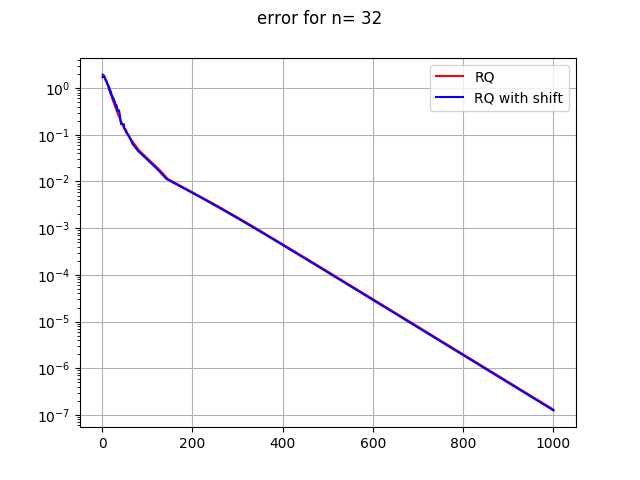
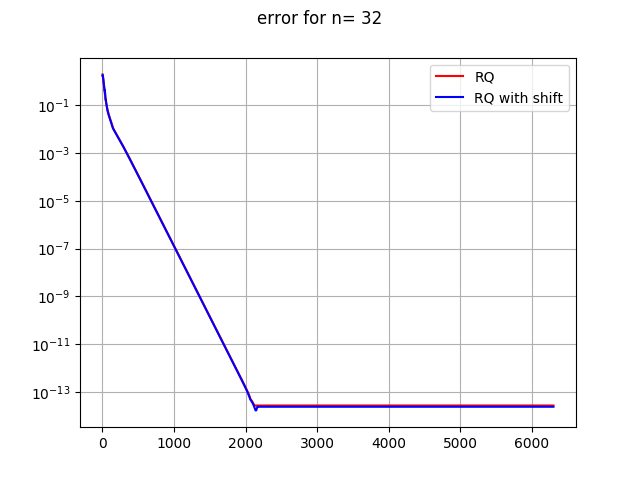
Ex12_4

diff --git a/Ue12/Ex12_4.py b/Ue12/Ex12_4.py
@@ -40,6 +40,14 @@ def myRQ_with_Shift(A,lmax):
         #     break
     return A, np.array(eigenvalues), iterations
 
+def find_convergence(array):
+    index = 0
+    for n, np in zip(array[:-1],array[1:]):
+        index += 1
+        if abs(n - np) < 1e-15:
+            break
+    return index
+
 if __name__ == "__main__":
 
     scriptpath = os.path.dirname(__file__)
@@ -77,10 +85,17 @@ if __name__ == "__main__":
     
     print('_'*50)
     print('PLOTTING')
-    l_max = 1000
-    for j in [3,5]:
+    l_max = 10000
+    index_RQ = []
+    index_RQ_with_shift = []
+    n_list = []
+    for j,l_max in zip(list(range(2,9)),[100,200,600,2100,7500,30000,60000]):
         n = 2**j
+        l_max = (100*int(np.power(n,1.2)))
+
         print('n= {}'.format(n))
+        print('l_max= {}'.format(l_max))
+        n_list.append(n)
         An = 2*np.eye(n,n,k=0) - np.eye(n,n,k=-1) - np.eye(n,n,k=1)
         
         true_eigenvalues = np.sort(np.linalg.eigvalsh(An))
@@ -98,10 +113,25 @@ if __name__ == "__main__":
         eigenvalues_RQ_with_shift = np.sort(eigenvalues_RQ_with_shift)
         error_RQ_with_shift = np.max(np.abs(eigenvalues_RQ_with_shift - true_eigenvalues),axis=1)
 
-        plt.clf()
-        plt.suptitle('error for n= {}'.format(n))
-        plt.semilogy(np.arange(1,l_max+1), error_RQ, 'r-', label='RQ')
-        plt.semilogy(np.arange(1,np.size(error_RQ_with_shift)+1), error_RQ_with_shift, 'b-', label='RQ with shift')
-        plt.grid()
-        plt.legend()
-        plt.savefig(os.path.join(scriptpath,"Ex12_4c_n={}.png".format(n)))
+        index_RQ.append(find_convergence(error_RQ))
+        index_RQ_with_shift.append(find_convergence(error_RQ_with_shift))
+        print(index_RQ[-1])
+        print(index_RQ_with_shift[-1])
+
+
+        if j == 3 or j == 5:
+            plt.clf()
+            plt.suptitle('error for n= {}'.format(n))
+            plt.semilogy(np.arange(1,l_max+1), error_RQ, 'r-', label='RQ')
+            plt.semilogy(np.arange(1,np.size(error_RQ_with_shift)+1), error_RQ_with_shift, 'b-', label='RQ with shift')
+            plt.grid()
+            plt.legend()
+            plt.savefig(os.path.join(scriptpath,"Ex12_4c_n={}.png".format(n)))
+
+    plt.clf()
+    plt.suptitle('number of QR-steps')
+    plt.loglog(n_list, index_RQ, 'rx-', label='RQ')
+    plt.loglog(n_list, index_RQ_with_shift, 'bx-', label='RQ with shift')
+    plt.grid()
+    plt.legend()
+    plt.savefig(os.path.join(scriptpath,"Ex12_4d.png"))
